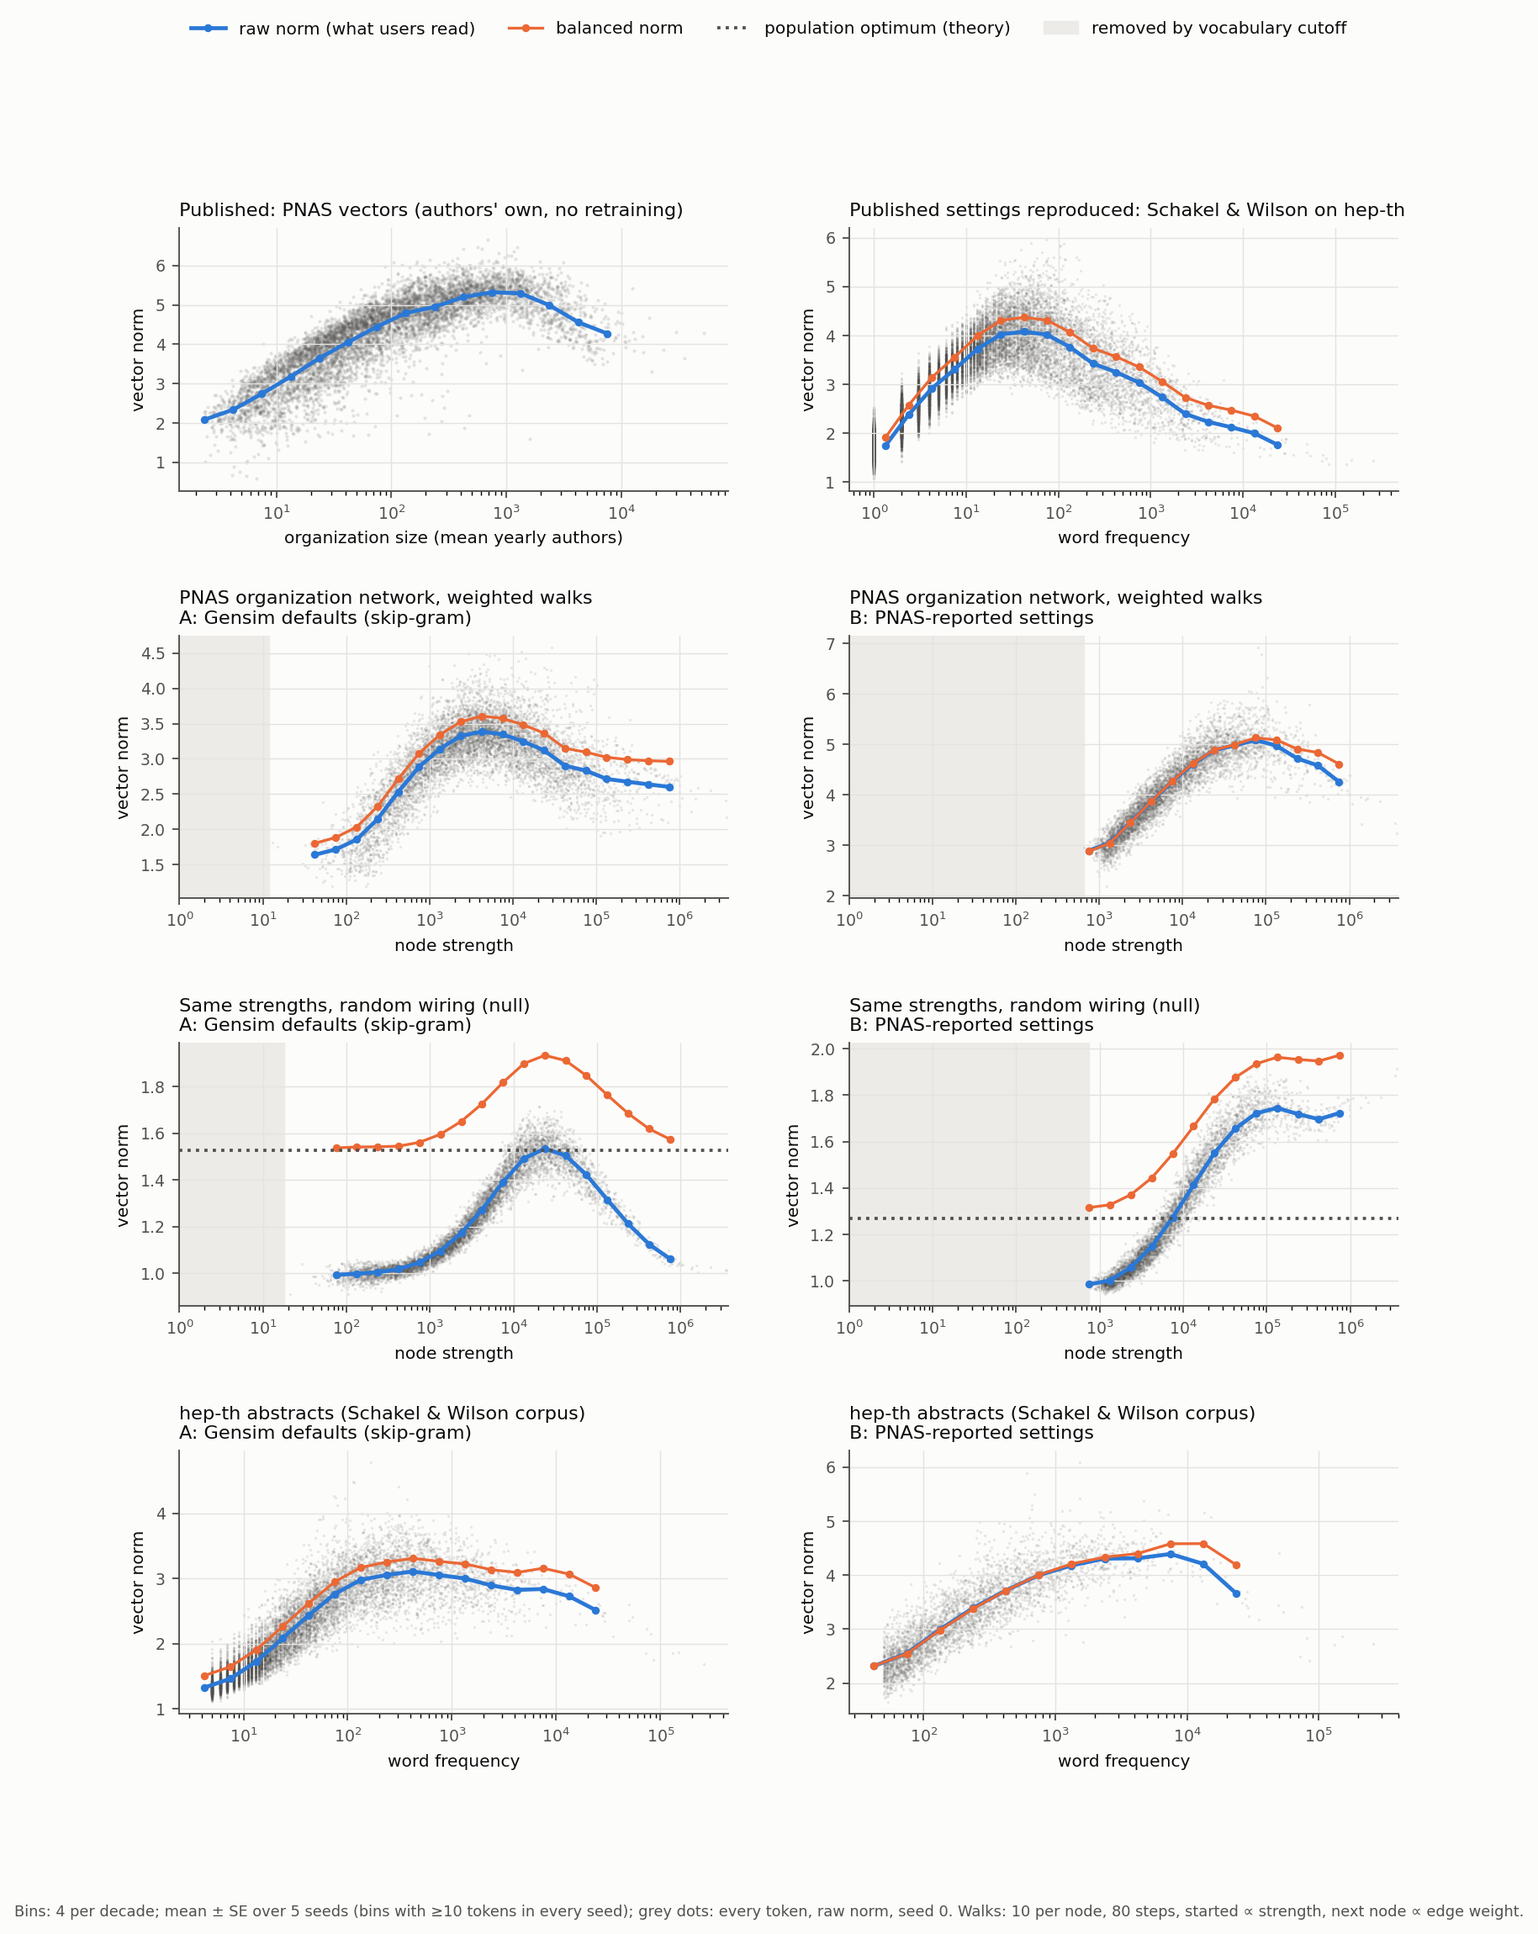
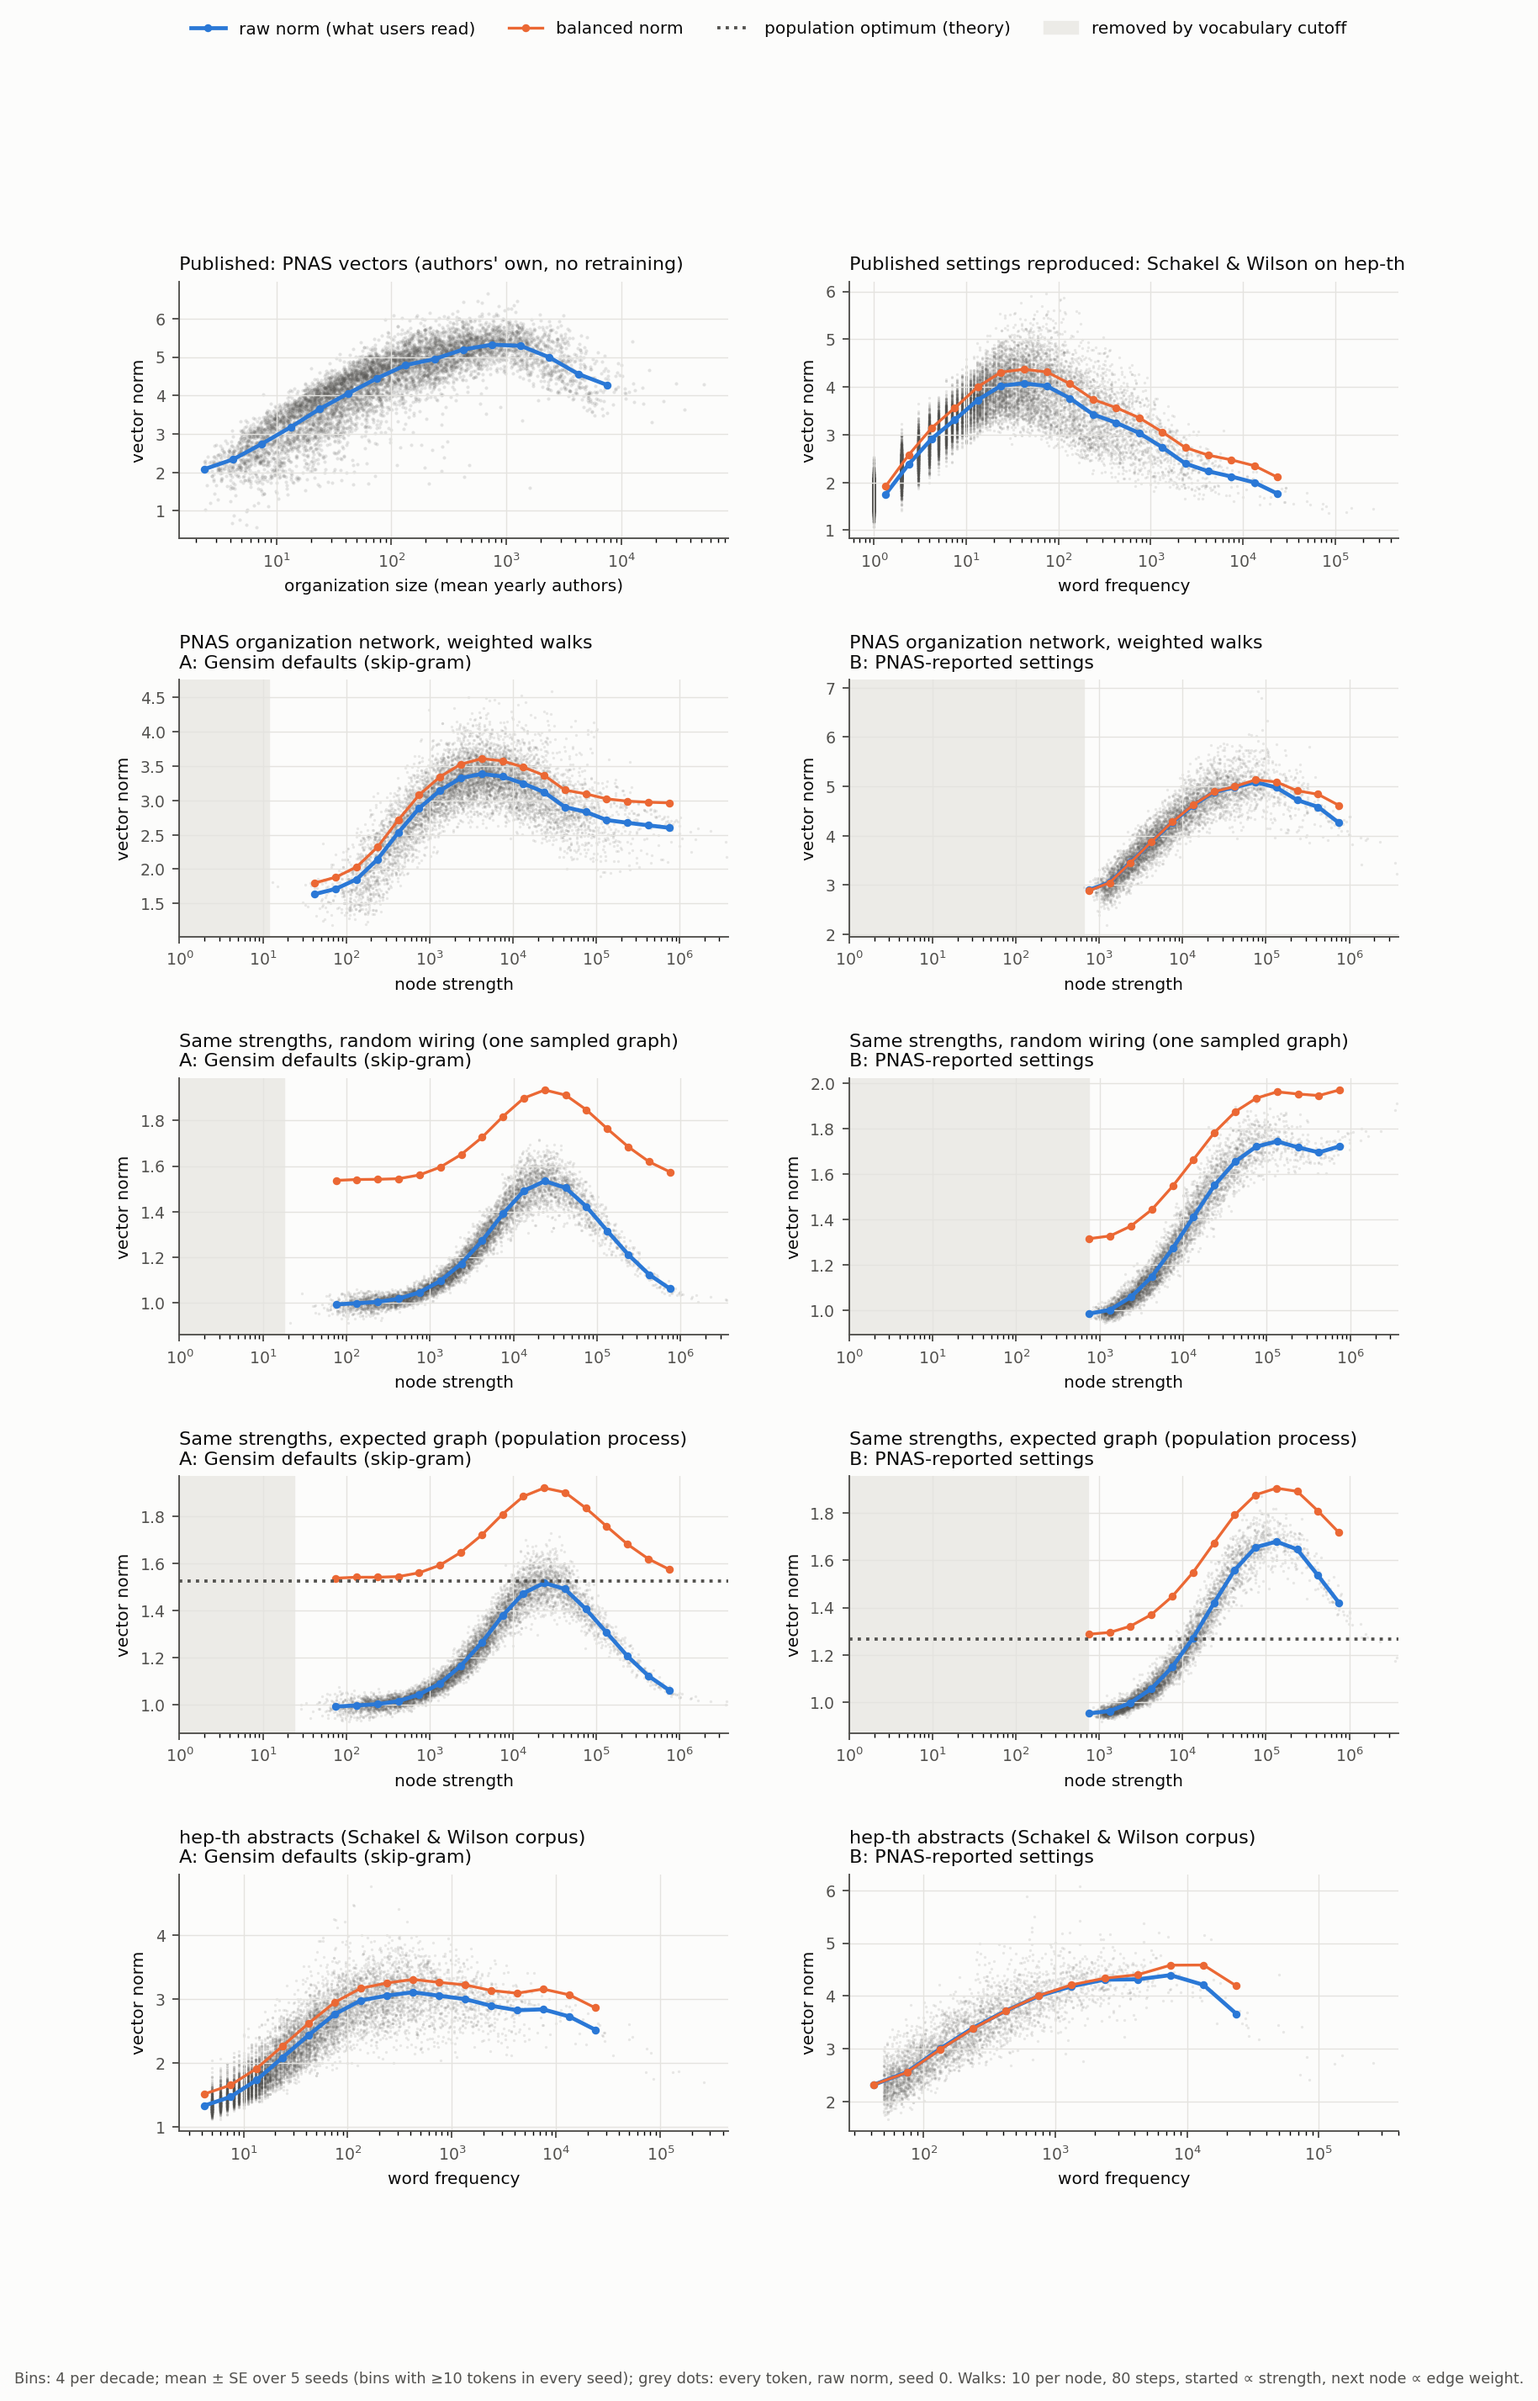
Draw the step-0 theory line only on the pop corpus (#59)
theory.py's optimum assumes independent draws in proportion to strength
(the pop corpus); the null corpus walks one sampled graph, whose target
contains degree (PNAS settings: null exceeds pop by up to ~0.19 in
balanced norm at high strength). theory.py now defaults to --corpus pop
and records the corpus in its output; figure.py adds a pop row and draws
the line only there, and both figure scripts assert the theory file's
corpus matches the panel. theory.json levels are essentially unchanged
(A 1.5255 -> 1.5254, B 1.2686). train.py no longer saves
vocabulary_before_cutoff, which Gensim 4 left at -1 in every run.

Fixes #59

diff --git a/scripts/step0/figure.py b/scripts/step0/figure.py
@@ -1,6 +1,7 @@
 """Step-0 problem figure: published curves reproduced (top row) and the 3 x 2 grid.
 
-Inputs: results/step0/runs/*.npz (train.py), results/step0/theory.json (theory.py), and
+Inputs: results/step0/runs/*.npz (train.py), results/step0/theory.json (theory.py; drawn
+  only on the corpus it was computed for, the pop row), and
   the PNAS
 anchor inputs (see anchor_pnas.py). Bins: log-spaced, 4 per decade; per-seed bin means,
 then
@@ -31,7 +32,8 @@ BLUE, ORANGE = "#2a78d6", "#eb6834"
 MIN_PER_BIN = 10
 ROWS = [
     ("real", "PNAS organization network, weighted walks", "node strength"),
-    ("null", "Same strengths, random wiring (null)", "node strength"),
+    ("null", "Same strengths, random wiring (one sampled graph)", "node strength"),
+    ("pop", "Same strengths, expected graph (population process)", "node strength"),
     ("text", "hep-th abstracts (Schakel & Wilson corpus)", "word frequency"),
 ]
 COLS = [("A", "A: Gensim defaults (skip-gram)"), ("B", "B: PNAS-reported settings")]
@@ -121,11 +123,12 @@ def main() -> None:
         )
     a = p.parse_args()
     theory = json.loads((a.runs.parent / "theory.json").read_text())
+    assert theory["corpus"] == "pop", "theory line must match the pop corpus (#59)"
     plt.rcParams.update(
         {"text.color": INK, "axes.edgecolor": MUTED, "axes.labelcolor": INK}
     )
-    fig = plt.figure(figsize=(11, 13.5), facecolor=SURFACE)
-    grid = fig.add_gridspec(4, 2, hspace=0.55, wspace=0.22)
+    fig = plt.figure(figsize=(11, 16.8), facecolor=SURFACE)
+    grid = fig.add_gridspec(5, 2, hspace=0.55, wspace=0.22)
 
     ax = fig.add_subplot(grid[0, 0])
     sizes = read_sizes(a.anchor_sizes)
@@ -166,7 +169,7 @@ def main() -> None:
     for r, (corpus, row_title, xlabel) in enumerate(ROWS, start=1):
         for c, (column, col_title) in enumerate(COLS):
             ax = fig.add_subplot(grid[r, c])
-            level = theory[column]["level_mean"] if corpus == "null" else None
+            level = theory[column]["level_mean"] if corpus == theory["corpus"] else None
             draw(
                 ax,
                 sorted(a.runs.glob(f"{corpus}_{column}_s*.npz")),

diff --git a/scripts/step0/theory.py b/scripts/step0/theory.py
@@ -1,5 +1,7 @@
-"""Population-theory line for the step-0 null (expected graph of the weighted
-configuration model).
+"""Population-theory line for the step-0 population process (pop corpus: independent
+draws in proportion to strength, i.e. walks on the expected graph of the weighted
+configuration model). It does not hold for the null corpus, which walks one sampled
+realization (issue #59).
 
 With walks started in proportion to strength, every token of a walk on the expected
 graph is an
@@ -58,7 +60,7 @@ def scores(counts: np.ndarray, sample: float, exponent: float) -> np.ndarray:
 def main() -> None:
     p = argparse.ArgumentParser()
     p.add_argument("--runs", type=Path, required=True)
-    p.add_argument("--corpus", default="null")
+    p.add_argument("--corpus", default="pop", choices=("pop", "ba"))
     p.add_argument("--out", type=Path)
     a = p.parse_args()
     out = {}
@@ -92,8 +94,9 @@ def main() -> None:
             "max_numeric_vs_formula_error": max(checks),
             "runs": levels,
         }
+    out["corpus"] = a.corpus
     out["note"] = (
-        "Flat in any gauge (context factors full rank); "
+        "Flat in the balanced gauge (raw factors can carry unused components); "
         "level shown is the balanced gauge."
     )
     (a.out or a.runs.parent / "theory.json").write_text(json.dumps(out, indent=1))

diff --git a/scripts/step0/figure_paper.py b/scripts/step0/figure_paper.py
@@ -128,7 +128,9 @@ def main() -> None:
         )
     p.add_argument("--theory", type=Path, default=Path("results/step0/theory_ba.json"))
     a = p.parse_args()
-    levels = {k: v["level_mean"] for k, v in json.loads(a.theory.read_text()).items() if k in COLORS}
+    theory = json.loads(a.theory.read_text())
+    assert theory["corpus"] == "ba", "theory line must match the ba corpus (#59)"
+    levels = {k: theory[k]["level_mean"] for k in COLORS}
     plt.rcParams.update(
         {
             "font.family": "sans-serif",

diff --git a/scripts/step0/train.py b/scripts/step0/train.py
@@ -124,9 +124,6 @@ def main() -> None:
         balanced_norm=balanced,
         x=x,
         settings=json.dumps(settings),
-        vocabulary_before_cutoff=len(model.raw_vocab)
-        if hasattr(model, "raw_vocab") and model.raw_vocab
-        else -1,
     )
     print(f"{a.corpus} {a.column} s{a.seed}: {len(tokens)} tokens kept", flush=True)
 

diff --git a/scripts/step0/README.md b/scripts/step0/README.md
@@ -47,10 +47,10 @@ public; the deposited network, vectors and organization sizes are used instead.
 | `blogcatalog_corpus.py` | Fig. 1(c): random walks on BlogCatalog, same walk law as the PNAS walks |
 | `ba_corpus.py` | Fig. 1(d): walks on the expected graph of `networkx.barabasi_albert_graph(10000, 5, seed=k)`, i.e. independent draws in proportion to degree (N and m are our choices) |
 | `train.py` | one Gensim run (corrected build, one worker, seeded) → `results/step0/runs/*.npz` |
-| `theory.py` | exact optimum of the expected loss for the population process → `results/step0/theory.json`; `--corpus ba` → `theory_ba.json` |
+| `theory.py` | exact optimum of the expected loss for the population process (pop corpus) → `results/step0/theory.json`; `--corpus ba` → `theory_ba.json`. Not valid for the null corpus (one sampled graph, whose target contains degree) |
 | `checks.py` | corpus, transition, update-range, cutoff and replay checks → `results/step0/checks.json` |
 | `figure_paper.py` | Fig. 1 (PRE double-column, vector PDF + 600-dpi PNG) |
-| `figure.py`, `anchor_pnas.py` | diagnostic grid (raw and balanced norms, null) and the PNAS redraw |
+| `figure.py`, `anchor_pnas.py` | diagnostic grid (raw and balanced norms; null and pop rows, theory line on pop only) and the PNAS redraw |
 | `diagnose_population.py`, `diagnose_unseen_pairs.py` | 5- vs 50-epoch diagnosis (for the next figure) |
 
 ## Settings
